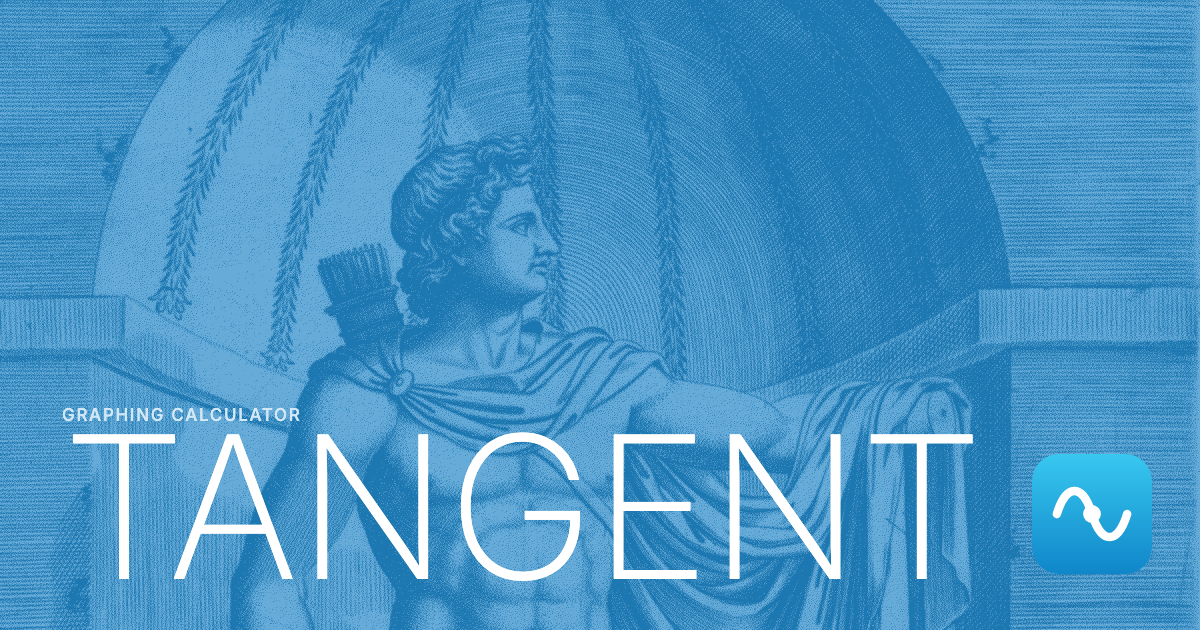
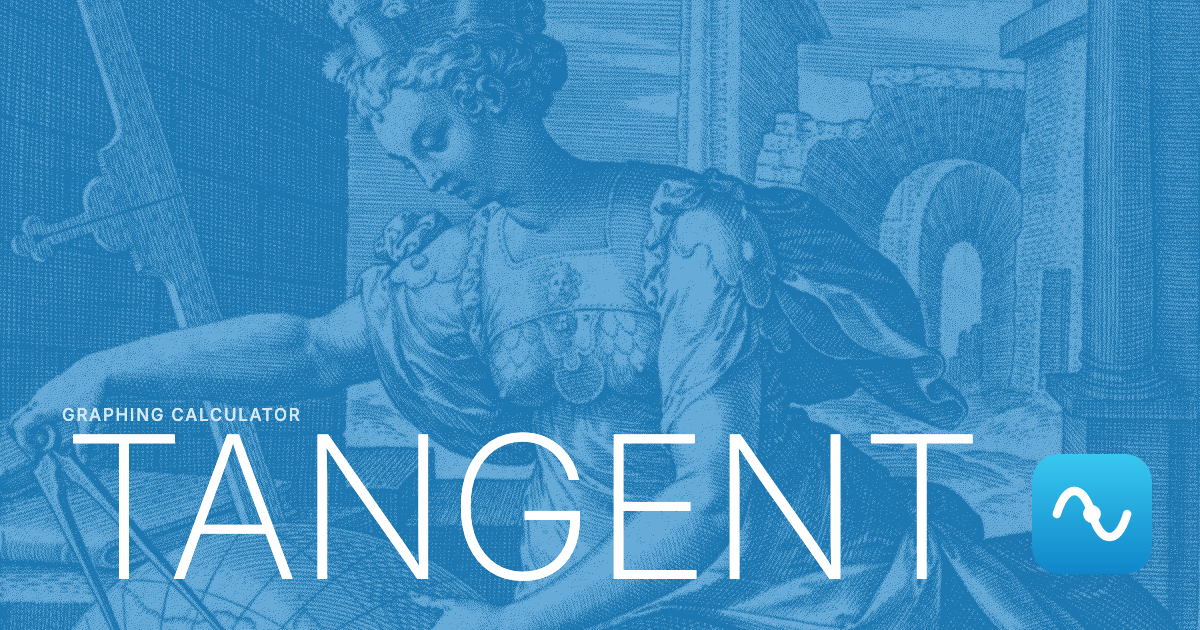
Landing: Geometria engraving (Sadeler after de Vos, Met CC0) replaces Apollo; og image redrawn
Claude-Session: https://claude.ai/code/session_01VDrZ1hQgdscBKdDKtkZdKB

diff --git a/landing/landing.css b/landing/landing.css
@@ -188,9 +188,9 @@ html.js .reveal.in-view { opacity: 1; transform: none; transition: opacity .6s e
 .nav .btn { border-radius: 999px; height: 40px; }
 .band .glass, .stage .glass { background: color-mix(in srgb, var(--bg) 40%, transparent); }
 
-/* Apollo in a halftone, still: the engraving is a mask over the band tint */
+/* Geometria in a halftone, still: the engraving is a mask over the band tint */
 .hero-band { position: relative; margin: 0 clamp(0px, 3vw, 44px); height: clamp(520px, 92vh, 860px); background: var(--grain), var(--band); overflow: hidden; color: #fff; }
-.spot { position: absolute; inset: 0 0 96px 0; background: var(--band-art); opacity: .85; -webkit-mask-image: url(art/apollo.png); mask-image: url(art/apollo.png); -webkit-mask-size: cover; mask-size: cover; -webkit-mask-position: 40% 18%; mask-position: 40% 18%; -webkit-mask-repeat: no-repeat; mask-repeat: no-repeat; }
+.spot { position: absolute; inset: 0 0 96px 0; background: var(--band-art); opacity: .85; -webkit-mask-image: url(art/geometria.png); mask-image: url(art/geometria.png); -webkit-mask-size: cover; mask-size: cover; -webkit-mask-position: 38% 22%; mask-position: 38% 22%; -webkit-mask-repeat: no-repeat; mask-repeat: no-repeat; }
 .badge { display: inline-block; line-height: 0; }
 .badge img { display: block; height: 48px; width: auto; }
 .badge:focus-visible { outline: 3px solid var(--ring); outline-offset: 3px; }
@@ -204,5 +204,5 @@ html.js .reveal.in-view { opacity: 1; transform: none; transition: opacity .6s e
 /* Hero background is the live app; copy sits over it and lets clicks through */
 .app-bg { position: absolute; --copy: calc(clamp(100px, 17vw, 250px) + 32px); top: 76px; left: 0; width: 100%; height: calc(100% - 76px - var(--copy)); border: 0; background: #000; }
 .hero-copy { pointer-events: none; padding-top: 0; padding-bottom: var(--sp-5); }
-.gods { height: clamp(360px, 60vh, 640px); margin-top: var(--sp-8); }
+.gods { height: clamp(460px, 72vh, 740px); margin-top: var(--sp-8); }
 .gods .spot { inset: 0; }

diff --git a/scripts/og.html b/scripts/og.html
@@ -6,7 +6,7 @@
 @font-face { font-family: "Tangent Sans"; src: url("../landing/fonts/TangentSans-Medium.woff2"); font-weight: 500; }
 html, body { margin: 0; width: 1200px; height: 630px; overflow: hidden; }
 body { position: relative; background: #1d77b0; font-family: "Tangent Sans", sans-serif; color: #fff; }
-.art { position: absolute; inset: 0; background: #7ab9e3; opacity: .8; -webkit-mask: url(../landing/art/apollo.png) 40% 18% / cover no-repeat; mask: url(../landing/art/apollo.png) 40% 18% / cover no-repeat; }
+.art { position: absolute; inset: 0; background: #7ab9e3; opacity: .8; -webkit-mask: url(../landing/art/geometria.png) 40% 22% / cover no-repeat; mask: url(../landing/art/geometria.png) 40% 22% / cover no-repeat; }
 .label { position: absolute; left: 62px; top: 388px; font-weight: 500; font-size: 17px; letter-spacing: .1em; color: #d3e8f6; }
 h1 { position: absolute; left: 62px; top: 408px; margin: 0; font-weight: 200; font-size: 198px; line-height: 1; letter-spacing: -.005em; }
 img { position: absolute; right: 48px; bottom: 56px; width: 120px; height: 120px; border-radius: 22.5%; }

diff --git a/landing/index.html b/landing/index.html
@@ -34,7 +34,7 @@
   <div class="nav-end"><a class="btn btn-solid" href="/app/">Open app</a></div>
 </header>
 
-<!-- Art: Apollo Belvedere, engraved by Antonio Lafreri (16th century, Metropolitan Museum, CC0), cropped above the waist and
+<!-- Art: Geometria, engraved by Johann Sadeler I after Maarten de Vos (c. 1570-1600, Metropolitan Museum, CC0), cropped above the knee and
      dithered to a halftone mask by hand. -->
 <main id="top">
 <section class="hero-band" id="hero">

diff --git a/scripts/dither.py b/scripts/dither.py
@@ -1,5 +1,5 @@
 # usage: dither.py <engraving.jpg> <out.png> <x0,y0,x1,y1 crop fractions> <width>
-# landing/art/apollo.png: Met Lafreri engraving, crop 0.12,0.10,0.95,0.475, width 1800
+# landing/art/geometria.png: Met Sadeler engraving (after de Vos), crop 0.06,0.06,0.95,0.62, width 1800
 # Halftone mask from a public domain engraving: bright areas become dots (opaque), dark areas stay clear.
 import sys
 from PIL import Image, ImageOps, ImageFilter

diff --git a/docs/LOOP-HANDOFF.md b/docs/LOOP-HANDOFF.md
@@ -9,7 +9,7 @@ Joshua's `/loop` for Tangent. It works down `roadmap.md` one major version at a 
 - 2.0.0 is in App Review on iOS and Mac. It replaces 1.2.6, which was pulled and folded in. It has light mode, points, parametric and polar curves, inequality shading, key points, tap a dot to hide a curve, and native sliders.
 - 3.0 is built and committed on all three surfaces: v3 functions, v4 lists and ranges, v5 slider bounds and a play button, and 85 one-tap patterns in 11 categories. The web is live. Native 3.0.0 waits for 2.0.0 to clear.
 - The repo is nulljosh/tangent, public, Apache 2.0, checked out at `~/Documents/Code/tangent`. Labs no longer tracks it. CI is green on web tests, Swift checks and docs.
-- The landing hero is the live app in a frame above a blue title strip, with the Apollo art in its own band above the footer. It is deployed and verified live.
+- The landing hero is the live app in a frame above a blue title strip, with the Geometria art in its own band above the footer. It is deployed and verified live.
 - The App Store privacy URL is tangent.jaybulb.com/app/privacy.html.
 - The roadmap runs to v100. v6 is the next open version.
 - The repo, folder and domain are Tangent as of 2026-10-21 (tangent.jaybulb.com, Pages project grapher kept on purpose). The App Store name is still Tangent until Apple accepts 2.0.0. The Tangent name probe waits on that review.

diff --git a/CLAUDE.md b/CLAUDE.md
@@ -90,7 +90,7 @@ AppIcon asset catalog at `ios/App/Assets.xcassets/AppIcon.appiconset` (1024×102
 
 ## Landing
 
-`landing/` (index.html, landing.css, landing.js, footer-band.js, art/, fonts/), after the Hermes landing: halftone Apollo (Lafreri engraving, Met, CC0) dithered with `dither.py` logic, curves drawn in JS, the real app in an iframe on the blue stage. `npm run build` copies it over `dist/`. QA: `node scripts/qa-web.mjs` against `python3 -m http.server 4173 -d dist`.
+`landing/` (index.html, landing.css, landing.js, footer-band.js, art/, fonts/), after the Hermes landing: halftone Geometria (Sadeler engraving after de Vos, Met, CC0) dithered with `dither.py` logic, curves drawn in JS, the real app in an iframe on the blue stage. `npm run build` copies it over `dist/`. QA: `node scripts/qa-web.mjs` against `python3 -m http.server 4173 -d dist`.
 
 ## Key files
 

diff --git a/CHANGELOG.md b/CHANGELOG.md
@@ -4,7 +4,7 @@
 
 Curvely is now Tangent. Repo, site, landing, web app, native product name, brand font and icon bundle are renamed. The App Store listing keeps the name Curvely until Apple accepts the new one. Bundle IDs, the Android package, the `grapher` Pages project and the old `curvely.jaybulb.com` host stay as they were.
 
-- Landing: the live app is the hero, the Apollo engraving moved to the bottom, official App Store and Mac App Store badges
+- Landing: the live app is the hero, a Geometria engraving (compass and globe) sits at the bottom where Apollo was, official App Store and Mac App Store badges
 
 ## [v2.0.0] — 2026-10-21
 
